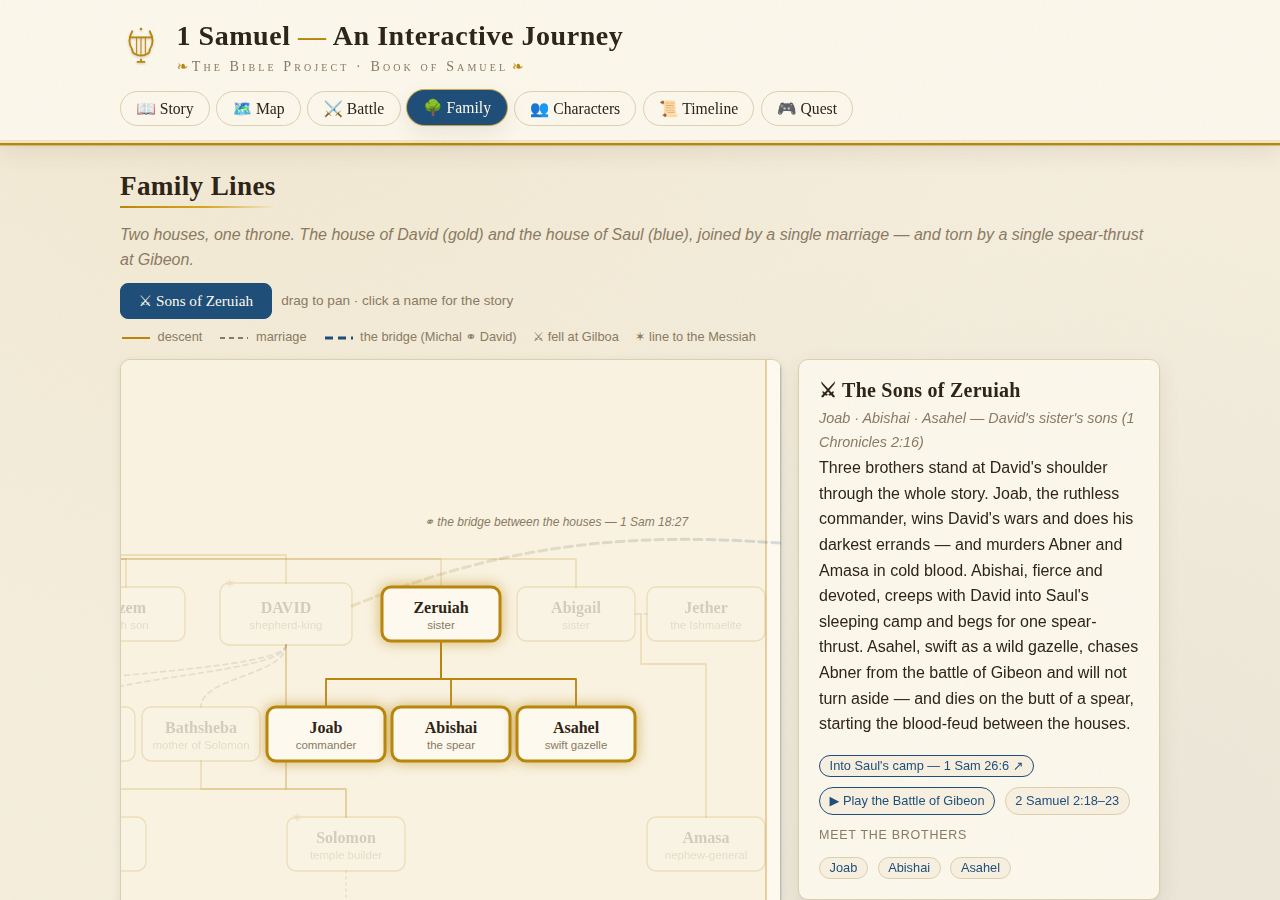
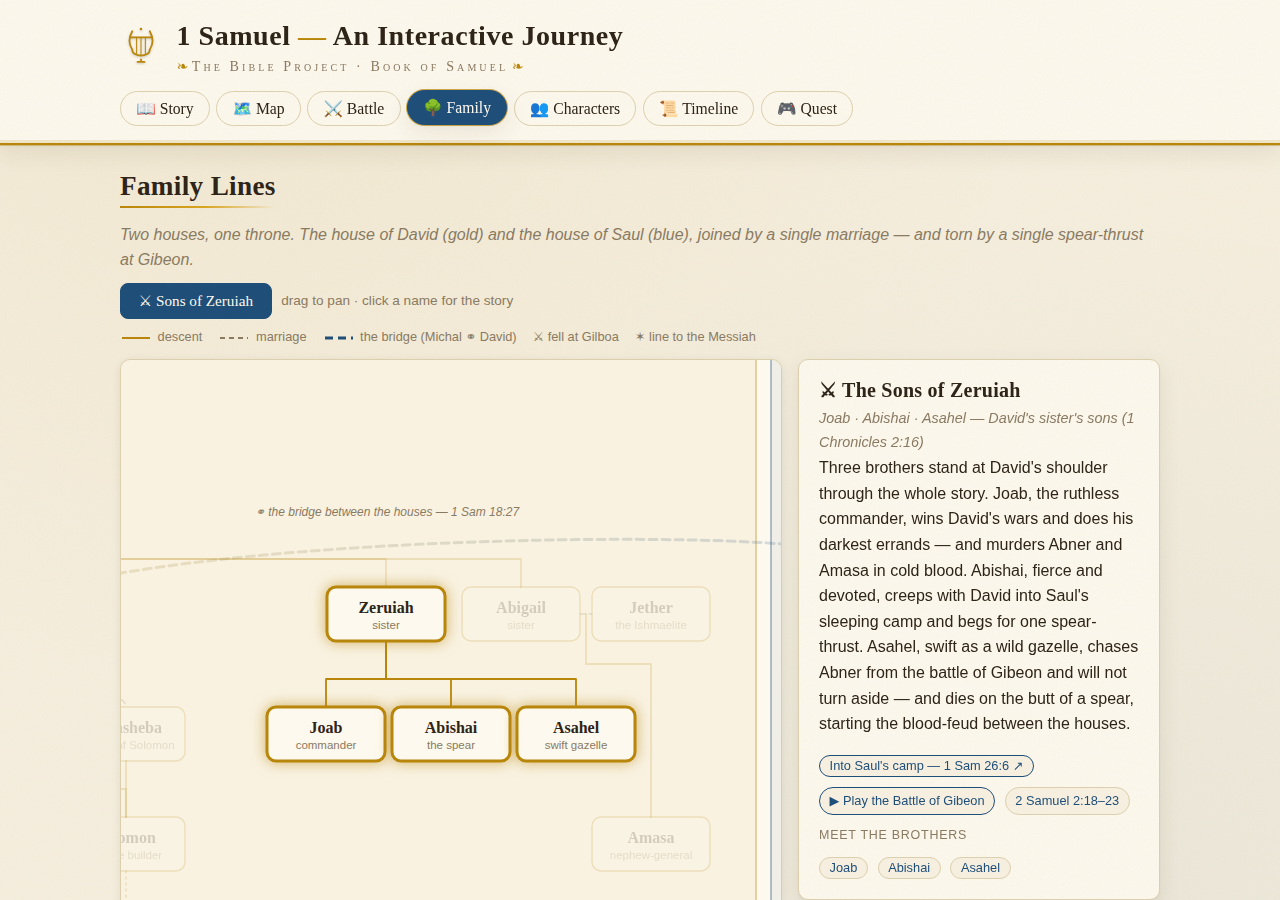
Render neuron maps in family tree; place Hebron sons; rebuild bundle
- Tree canvas widened to 2510x880: wives row and Hebron-sons row under
  David (each son below his mother), Phaltiel beside Michal, Zeruiah
  cluster reflowed; zero node overlaps verified
- Detail panel renders every mention (ref/when/what/why) and clickable
  connection rows that hop selection person-to-person
- Zero console errors across light/dark, 1280x900 and 390x844
- family.png retaken; new family-neurons.png

Claude-Session: https://claude.ai/code/session_01HMwGaZ8WAaVPjBz9iR9HtN

diff --git a/js/familytree.js b/js/familytree.js
@@ -10,9 +10,9 @@
   var SVG_NS = "http://www.w3.org/2000/svg";
 
   // ---- geometry -----------------------------------------------------------
-  var VIEW_W = 2160;
+  var VIEW_W = 2510;
   var VIEW_H = 880;
-  var RENDER_W = 2160;                       // rendered px width (scrolls inside its box); 1:1 with viewBox so labels stay legible
+  var RENDER_W = VIEW_W;                     // rendered px width (scrolls inside its box); 1:1 with viewBox so labels stay legible
   var RENDER_H = Math.round(VIEW_H * RENDER_W / VIEW_W);
   var SCALE = RENDER_W / VIEW_W;
   var NODE_W = 118, NODE_H = 54;             // default node box (SVG units)
@@ -33,39 +33,51 @@
     "raddai":         { x: 592,  y: 470, lines: ["Raddai"], sub: "fifth son" },
     "ozem":           { x: 720,  y: 470, lines: ["Ozem"], sub: "sixth son" },
     "david":          { x: 880,  y: 470, w: 132, h: 62, lines: ["DAVID"], sub: "shepherd-king" },
-    "zeruiah":        { x: 1035, y: 470, lines: ["Zeruiah"], sub: "sister" },
-    "abigail-sister": { x: 1170, y: 470, lines: ["Abigail"], sub: "sister" },
-    "jether":         { x: 1300, y: 470, lines: ["Jether"], sub: "the Ishmaelite" },
-    // David's wives
-    "ahinoam":        { x: 545,  y: 590, lines: ["Ahinoam"], sub: "of Jezreel" },
-    "abigail-carmel": { x: 670,  y: 590, lines: ["Abigail"], sub: "of Carmel" },
-    "bathsheba":      { x: 795,  y: 590, lines: ["Bathsheba"], sub: "mother of Solomon" },
+    "zeruiah":        { x: 1340, y: 470, lines: ["Zeruiah"], sub: "sister" },
+    "abigail-sister": { x: 1475, y: 470, lines: ["Abigail"], sub: "sister" },
+    "jether":         { x: 1605, y: 470, lines: ["Jether"], sub: "the Ishmaelite" },
+    // David's wives (y=590) — each mother sits directly above her son.
+    // Deliberate 140px gap between x=810 and x=950 so David's descent trunk
+    // (a vertical at x=880) threads between abital and eglah without touching.
+    "ahinoam":        { x: 290,  y: 590, lines: ["Ahinoam"], sub: "of Jezreel" },
+    "abigail-carmel": { x: 420,  y: 590, lines: ["Abigail"], sub: "of Carmel" },
+    "maacah":         { x: 550,  y: 590, lines: ["Maacah"], sub: "princess of Geshur" },
+    "haggith":        { x: 680,  y: 590, lines: ["Haggith"], sub: "mother of Adonijah" },
+    "abital":         { x: 810,  y: 590, lines: ["Abital"], sub: "mother of Shephatiah" },
+    "eglah":          { x: 950,  y: 590, lines: ["Eglah"], sub: "mother of Ithream" },
+    "bathsheba":      { x: 1080, y: 590, lines: ["Bathsheba"], sub: "mother of Solomon" },
     // the sons of Zeruiah + Amasa
-    "joab":           { x: 920,  y: 590, lines: ["Joab"], sub: "commander" },
-    "abishai":        { x: 1045, y: 590, lines: ["Abishai"], sub: "the spear" },
-    "asahel":         { x: 1170, y: 590, lines: ["Asahel"], sub: "swift gazelle" },
-    "amasa":          { x: 1300, y: 700, lines: ["Amasa"], sub: "nephew-general" },
-    // David's sons
-    "hebron-sons":    { x: 645,  y: 700, w: 190, lines: ["Amnon · Chileab", "Absalom · Adonijah"], sub: "born at Hebron" },
-    "solomon":        { x: 940,  y: 700, lines: ["Solomon"], sub: "temple builder" },
+    "joab":           { x: 1280, y: 590, lines: ["Joab"], sub: "commander" },
+    "abishai":        { x: 1405, y: 590, lines: ["Abishai"], sub: "the spear" },
+    "asahel":         { x: 1530, y: 590, lines: ["Asahel"], sub: "swift gazelle" },
+    "amasa":          { x: 1605, y: 700, lines: ["Amasa"], sub: "nephew-general" },
+    // David's sons (y=700), the six Hebron sons in 2 Samuel 3:2–5 order + Solomon
+    "amnon":          { x: 290,  y: 700, lines: ["Amnon"], sub: "firstborn at Hebron" },
+    "chileab":        { x: 420,  y: 700, lines: ["Chileab"], sub: "(Daniel), second son" },
+    "absalom":        { x: 550,  y: 700, lines: ["Absalom"], sub: "the rebel prince" },
+    "adonijah":       { x: 680,  y: 700, lines: ["Adonijah"], sub: "the almost-king" },
+    "shephatiah":     { x: 810,  y: 700, lines: ["Shephatiah"], sub: "fifth son" },
+    "ithream":        { x: 950,  y: 700, lines: ["Ithream"], sub: "sixth son" },
+    "solomon":        { x: 1080, y: 700, lines: ["Solomon"], sub: "temple builder" },
     // house of Saul
-    "abiel":          { x: 1760, y: 70,  lines: ["Abiel"], sub: "of Benjamin" },
-    "kish":           { x: 1630, y: 170, lines: ["Kish"], sub: "father of Saul" },
-    "ner":            { x: 1890, y: 170, lines: ["Ner"], sub: "father of Abner" },
-    "saul":           { x: 1630, y: 268, w: 132, h: 62, lines: ["SAUL"], sub: "first king" },
-    "abner":          { x: 1890, y: 268, lines: ["Abner"], sub: "commander" },
-    "michal":         { x: 1445, y: 400, lines: ["Michal"], sub: "David's wife" },
-    "merab":          { x: 1570, y: 400, lines: ["Merab"], sub: "elder daughter" },
-    "jonathan":       { x: 1695, y: 400, lines: ["Jonathan"], sub: "covenant friend" },
-    "abinadab-saul":  { x: 1820, y: 400, lines: ["Abinadab"], sub: "son of Saul" },
-    "malchishua":     { x: 1945, y: 400, lines: ["Malchi-shua"], sub: "son of Saul" },
-    "ishbosheth":     { x: 2070, y: 400, lines: ["Ish-bosheth"], sub: "(Eshbaal)" },
-    "mephibosheth":   { x: 1695, y: 510, lines: ["Mephibosheth"], sub: "(Merib-baal)" }
+    "abiel":          { x: 2110, y: 70,  lines: ["Abiel"], sub: "of Benjamin" },
+    "kish":           { x: 1980, y: 170, lines: ["Kish"], sub: "father of Saul" },
+    "ner":            { x: 2240, y: 170, lines: ["Ner"], sub: "father of Abner" },
+    "saul":           { x: 1980, y: 268, w: 132, h: 62, lines: ["SAUL"], sub: "first king" },
+    "abner":          { x: 2240, y: 268, lines: ["Abner"], sub: "commander" },
+    "michal":         { x: 1795, y: 400, lines: ["Michal"], sub: "David's wife" },
+    "merab":          { x: 1920, y: 400, lines: ["Merab"], sub: "elder daughter" },
+    "jonathan":       { x: 2045, y: 400, lines: ["Jonathan"], sub: "covenant friend" },
+    "abinadab-saul":  { x: 2170, y: 400, lines: ["Abinadab"], sub: "son of Saul" },
+    "malchishua":     { x: 2295, y: 400, lines: ["Malchi-shua"], sub: "son of Saul" },
+    "ishbosheth":     { x: 2420, y: 400, lines: ["Ish-bosheth"], sub: "(Eshbaal)" },
+    "mephibosheth":   { x: 2045, y: 510, lines: ["Mephibosheth"], sub: "(Merib-baal)" },
+    "phaltiel":       { x: 1795, y: 510, lines: ["Phaltiel"], sub: "the weeping husband" }
   };
 
   var HOUSES = {
-    david: { x: 20,   y: 20, w: 1340, h: 840, cls: "ft-house-david", title: "House of David", sub: "Bethlehem — tribe of Judah" },
-    saul:  { x: 1375, y: 20, w: 765,  h: 840, cls: "ft-house-saul",  title: "House of Saul",  sub: "Gibeah — tribe of Benjamin" }
+    david: { x: 20,   y: 20, w: 1690, h: 840, cls: "ft-house-david", title: "House of David", sub: "Bethlehem — tribe of Judah" },
+    saul:  { x: 1725, y: 20, w: 765,  h: 840, cls: "ft-house-saul",  title: "House of Saul",  sub: "Gibeah — tribe of Benjamin" }
   };
 
   var ZERUIAH_SONS = ["joab", "abishai", "asahel"];
@@ -202,7 +214,8 @@
     "#view-family .ft-messiah-note .ft-note-1{font-family:var(--serif,Georgia,serif);font-size:14px;}" +
     "#view-family .ft-messiah-note .ft-note-2{font-size:11px;opacity:.85;}" +
 
-    /* detail panel */
+    /* detail panel (scrolls internally when the neuron map runs long) */
+    "#view-family .ft-detail{max-height:74vh;overflow-y:auto;overscroll-behavior:contain;}" +
     "#view-family .ft-detail h3{margin-bottom:.15rem;}" +
     "#view-family .ft-meaning{font-style:italic;color:var(--muted,#8a7a62);margin:0 0 .1rem;font-size:.9rem;}" +
     "#view-family .ft-role{color:var(--muted,#8a7a62);font-size:.85rem;margin:0 0 .6rem;}" +
@@ -213,6 +226,30 @@
     "#view-family .ft-kin-label{color:var(--muted,#8a7a62);font-size:.78rem;margin:.6rem 0 0;" +
     "text-transform:uppercase;letter-spacing:.06em;}" +
     "#view-family .ft-egg{margin-top:.6rem;color:var(--ft-david);font-style:italic;font-family:var(--serif,Georgia,serif);}" +
+
+    /* neuron map: 🧠 every mention */
+    "#view-family .ft-sec-label{color:var(--muted,#8a7a62);font-size:.78rem;margin:.85rem 0 0;" +
+    "text-transform:uppercase;letter-spacing:.06em;}" +
+    "#view-family .ft-mentions{display:flex;flex-direction:column;gap:.55rem;margin:.45rem 0 0;}" +
+    "#view-family .ft-mention{border-left:2px solid var(--ft-david);padding:.05rem 0 .05rem .55rem;}" +
+    "#view-family .ft-mention-head{display:flex;align-items:baseline;gap:.45rem;flex-wrap:wrap;margin-bottom:.15rem;}" +
+    "#view-family .chip.ft-mref{border-color:var(--ft-david);color:var(--ft-david);" +
+    "font-size:.72rem;padding:.08rem .45rem;}" +
+    "#view-family button.chip.ft-mref{cursor:pointer;}" +
+    "#view-family .ft-when{color:var(--muted,#8a7a62);font-size:.72rem;font-style:italic;}" +
+    "#view-family .ft-what{margin:0;font-size:.85rem;line-height:1.35;}" +
+    "#view-family .ft-why{margin:.12rem 0 0;font-size:.8rem;font-style:italic;color:var(--muted,#8a7a62);line-height:1.3;}" +
+
+    /* neuron map: 🔗 connections (click to hop node-to-node) */
+    "#view-family .ft-conns{display:flex;flex-direction:column;gap:.4rem;margin:.45rem 0 0;}" +
+    "#view-family .ft-conn{display:block;text-align:left;background:none;border:1px solid var(--line,#dccfae);" +
+    "border-radius:8px;padding:.4rem .55rem;cursor:pointer;font:inherit;color:inherit;width:100%;" +
+    "transition:border-color .15s,box-shadow .15s;}" +
+    "#view-family .ft-conn:hover,#view-family .ft-conn:focus{border-color:var(--ft-david);" +
+    "box-shadow:0 0 4px rgba(184,134,11,.35);outline:none;}" +
+    "#view-family .ft-conn-name{display:block;font-weight:bold;font-size:.85rem;" +
+    "font-family:var(--serif,Georgia,serif);color:var(--accent,#1f4e79);}" +
+    "#view-family .ft-conn-how{display:block;font-size:.8rem;color:var(--muted,#8a7a62);margin-top:.12rem;line-height:1.3;}" +
     "#view-family .ft-spotcard h3{margin-bottom:.3rem;}" +
 
     "@media (max-width:720px){#view-family .ft-layout{flex-direction:column;}" +
@@ -234,7 +271,7 @@
 
     for (i = 0; i < people.length; i++) {
       p = people[i];
-      if (!p || !LAYOUT[p.id]) continue;
+      if (!p || p.deprecated || !LAYOUT[p.id]) continue;
 
       // marriage edges
       var spouses = Array.isArray(p.spouses) ? p.spouses : [];
@@ -303,7 +340,9 @@
     for (i = 0; i < edges.length; i++) {
       if (edges[i].to === "amasa" && edges[i].type === "descent") {
         var am = boxOf("amasa");
-        edges[i].d = "M1235,470 V520 H" + am.x + " V" + am.top;
+        var as1 = boxOf("abigail-sister"), jt = boxOf("jether");
+        var cmx = (as1 && jt) ? (as1.x + jt.x) / 2 : am.x;
+        edges[i].d = "M" + cmx + "," + (as1 ? as1.y : 470) + " V520 H" + am.x + " V" + am.top;
       }
     }
 
@@ -365,8 +404,10 @@
     }
     svg.appendChild(gD); svg.appendChild(gS); svg.appendChild(gX);
 
-    // bridge label
-    svg.appendChild(svgEl("text", { "class": "ft-bridge-label", x: 1150, y: 382, "text-anchor": "middle" },
+    // bridge label — centered along the David↔Michal bridge curve
+    var bdv = boxOf("david"), bmi = boxOf("michal");
+    var blx = Math.round((bdv.right + bmi.left) / 2);
+    svg.appendChild(svgEl("text", { "class": "ft-bridge-label", x: blx, y: 372, "text-anchor": "middle" },
       "⚭ the bridge between the houses — 1 Sam 18:27"));
 
     // messiah note (annotation, not a person)
@@ -379,7 +420,7 @@
     var gNodes = svgEl("g");
     for (var n = 0; n < people.length; n++) {
       var p = people[n];
-      if (!p || !LAYOUT[p.id]) continue;
+      if (!p || p.deprecated || !LAYOUT[p.id]) continue;
       gNodes.appendChild(renderNode(p));
     }
     svg.appendChild(gNodes);
@@ -437,9 +478,27 @@
     return el("span", { "class": "chip" }, ref);
   }
 
+  function shortName(name) {
+    return String(name || "").replace(/ \(.*\)$/, "");
+  }
+
+  // gold verse-chip for the mentions list; "1 Samuel N" refs stay cross-linkable
+  function mentionRefChip(ref) {
+    var m = /^1 Samuel (\d+)/.exec(ref);
+    if (m) {
+      var chapter = parseInt(m[1], 10);
+      var b = el("button", { "class": "chip ft-mref", type: "button", "data-chapter": chapter }, ref + " ↗");
+      b.addEventListener("click", function () {
+        if (window.App && App.goToChapter) App.goToChapter(chapter);
+      });
+      return b;
+    }
+    return el("span", { "class": "chip ft-mref" }, ref);
+  }
+
   function kinChip(id, label) {
     var p = personById(id);
-    if (!p || !LAYOUT[id]) return null;
+    if (!p || p.deprecated || !LAYOUT[id]) return null;
     var b = el("button", { "class": "chip ft-kin", type: "button", "data-kin": id },
       p.name.replace(/ \(.*\)$/, "") + (label ? " · " + label : ""));
     b.addEventListener("click", function () { selectPerson(id); });
@@ -477,6 +536,48 @@
       var chips = el("div", { "class": "ft-chips" });
       for (var i = 0; i < p.refs.length; i++) chips.appendChild(refChip(p.refs[i]));
       box.appendChild(chips);
+    }
+
+    // 🧠 neuron map: every significant mention
+    if (Array.isArray(p.mentions) && p.mentions.length) {
+      box.appendChild(el("p", { "class": "ft-sec-label" }, "🧠 Every mention"));
+      var mlist = el("div", { "class": "ft-mentions" });
+      for (var m = 0; m < p.mentions.length; m++) {
+        var mn = p.mentions[m];
+        if (!mn) continue;
+        var item = el("div", { "class": "ft-mention" });
+        var head = el("div", { "class": "ft-mention-head" });
+        if (mn.ref) head.appendChild(mentionRefChip(mn.ref));
+        if (mn.when) head.appendChild(el("span", { "class": "ft-when" }, mn.when));
+        item.appendChild(head);
+        if (mn.what) item.appendChild(el("p", { "class": "ft-what" }, mn.what));
+        if (mn.why) item.appendChild(el("p", { "class": "ft-why" }, mn.why));
+        mlist.appendChild(item);
+      }
+      box.appendChild(mlist);
+    }
+
+    // 🔗 neuron map: associative links — click to hop through the web
+    if (Array.isArray(p.connections) && p.connections.length) {
+      var clist = el("div", { "class": "ft-conns" });
+      var anyConn = false;
+      for (var c = 0; c < p.connections.length; c++) {
+        var cn = p.connections[c];
+        var target = cn && cn.to ? personById(cn.to) : null;
+        if (!target || target.deprecated) continue;   // unknown / retired id — skip gracefully
+        anyConn = true;
+        var row = el("button", { "class": "ft-conn", type: "button", "data-conn": target.id });
+        row.appendChild(el("span", { "class": "ft-conn-name" }, shortName(target.name) + " →"));
+        if (cn.how) row.appendChild(el("span", { "class": "ft-conn-how" }, cn.how));
+        row.addEventListener("click", (function (tid) {
+          return function () { selectPerson(tid); };
+        })(target.id));
+        clist.appendChild(row);
+      }
+      if (anyConn) {
+        box.appendChild(el("p", { "class": "ft-sec-label" }, "🔗 Connections"));
+        box.appendChild(clist);
+      }
     }
 
     var kin = kinOf(p);
@@ -615,7 +716,7 @@
 
   function selectPerson(id) {
     var p = personById(id);
-    if (!p || !els.svg) return;
+    if (!p || p.deprecated || !els.svg) return;
     clearSpotlight();
     clearLineage();
     state.selected = id;
@@ -646,7 +747,7 @@
     });
     renderSpotlightCard();
     var ab = boxOf("abishai");
-    scrollToX(ab ? ab.x : 1045, ab ? ab.y : 590);
+    scrollToX(ab ? ab.x : 1405, ab ? ab.y : 590);
   }
 
   // ---- drag-to-pan --------------------------------------------------------

diff --git a/DEVLOG.md b/DEVLOG.md
@@ -87,8 +87,19 @@ commentary.
   covering 1 Sam 1–31 and 2 Sam 1–2. Verified in-browser: zero console
   errors, scenes present on ch. 1 and ch. 17; `screenshots/voices.png`.
 
-### Known issues / next up
-- Family tree "neuron maps" (2 Sam 3 Hebron sons + per-person mentions and
-  connections) — data in progress, panel rendering next.
-- QA round 2 across everything + rebuilt single-file bundle queued.
+### Phase 7 — Neuron maps rendered; bundle rebuilt
+- Family data grown to 47 people: the six Hebron sons of 2 Sam 3:2–5 as
+  individuals under their four mothers (all added as nodes), plus Phaltiel;
+  every person carries a "neuron map" — 195 mentions (ref/when/what/why)
+  and 148 person-to-person connections, all id-validated.
+- Tree canvas widened to 2510×880: wives row + sons row under David, each
+  son below his mother, Phaltiel beside Michal (both her marriages drawn).
+  Zero box overlaps, verified programmatically.
+- Detail panel now shows "🧠 Every mention" and clickable "🔗 Connections"
+  rows that hop the selection through the web (asahel → abner → joab chain
+  verified).
+- Zero-error matrix re-passed (light/dark × desktop/mobile); single-file
+  bundle rebuilt with all 19 scripts and verified over file://.
+
+### Next up
 - 2 Samuel content: chapter structure ready to extend; user is studying 2 Sam 2.
